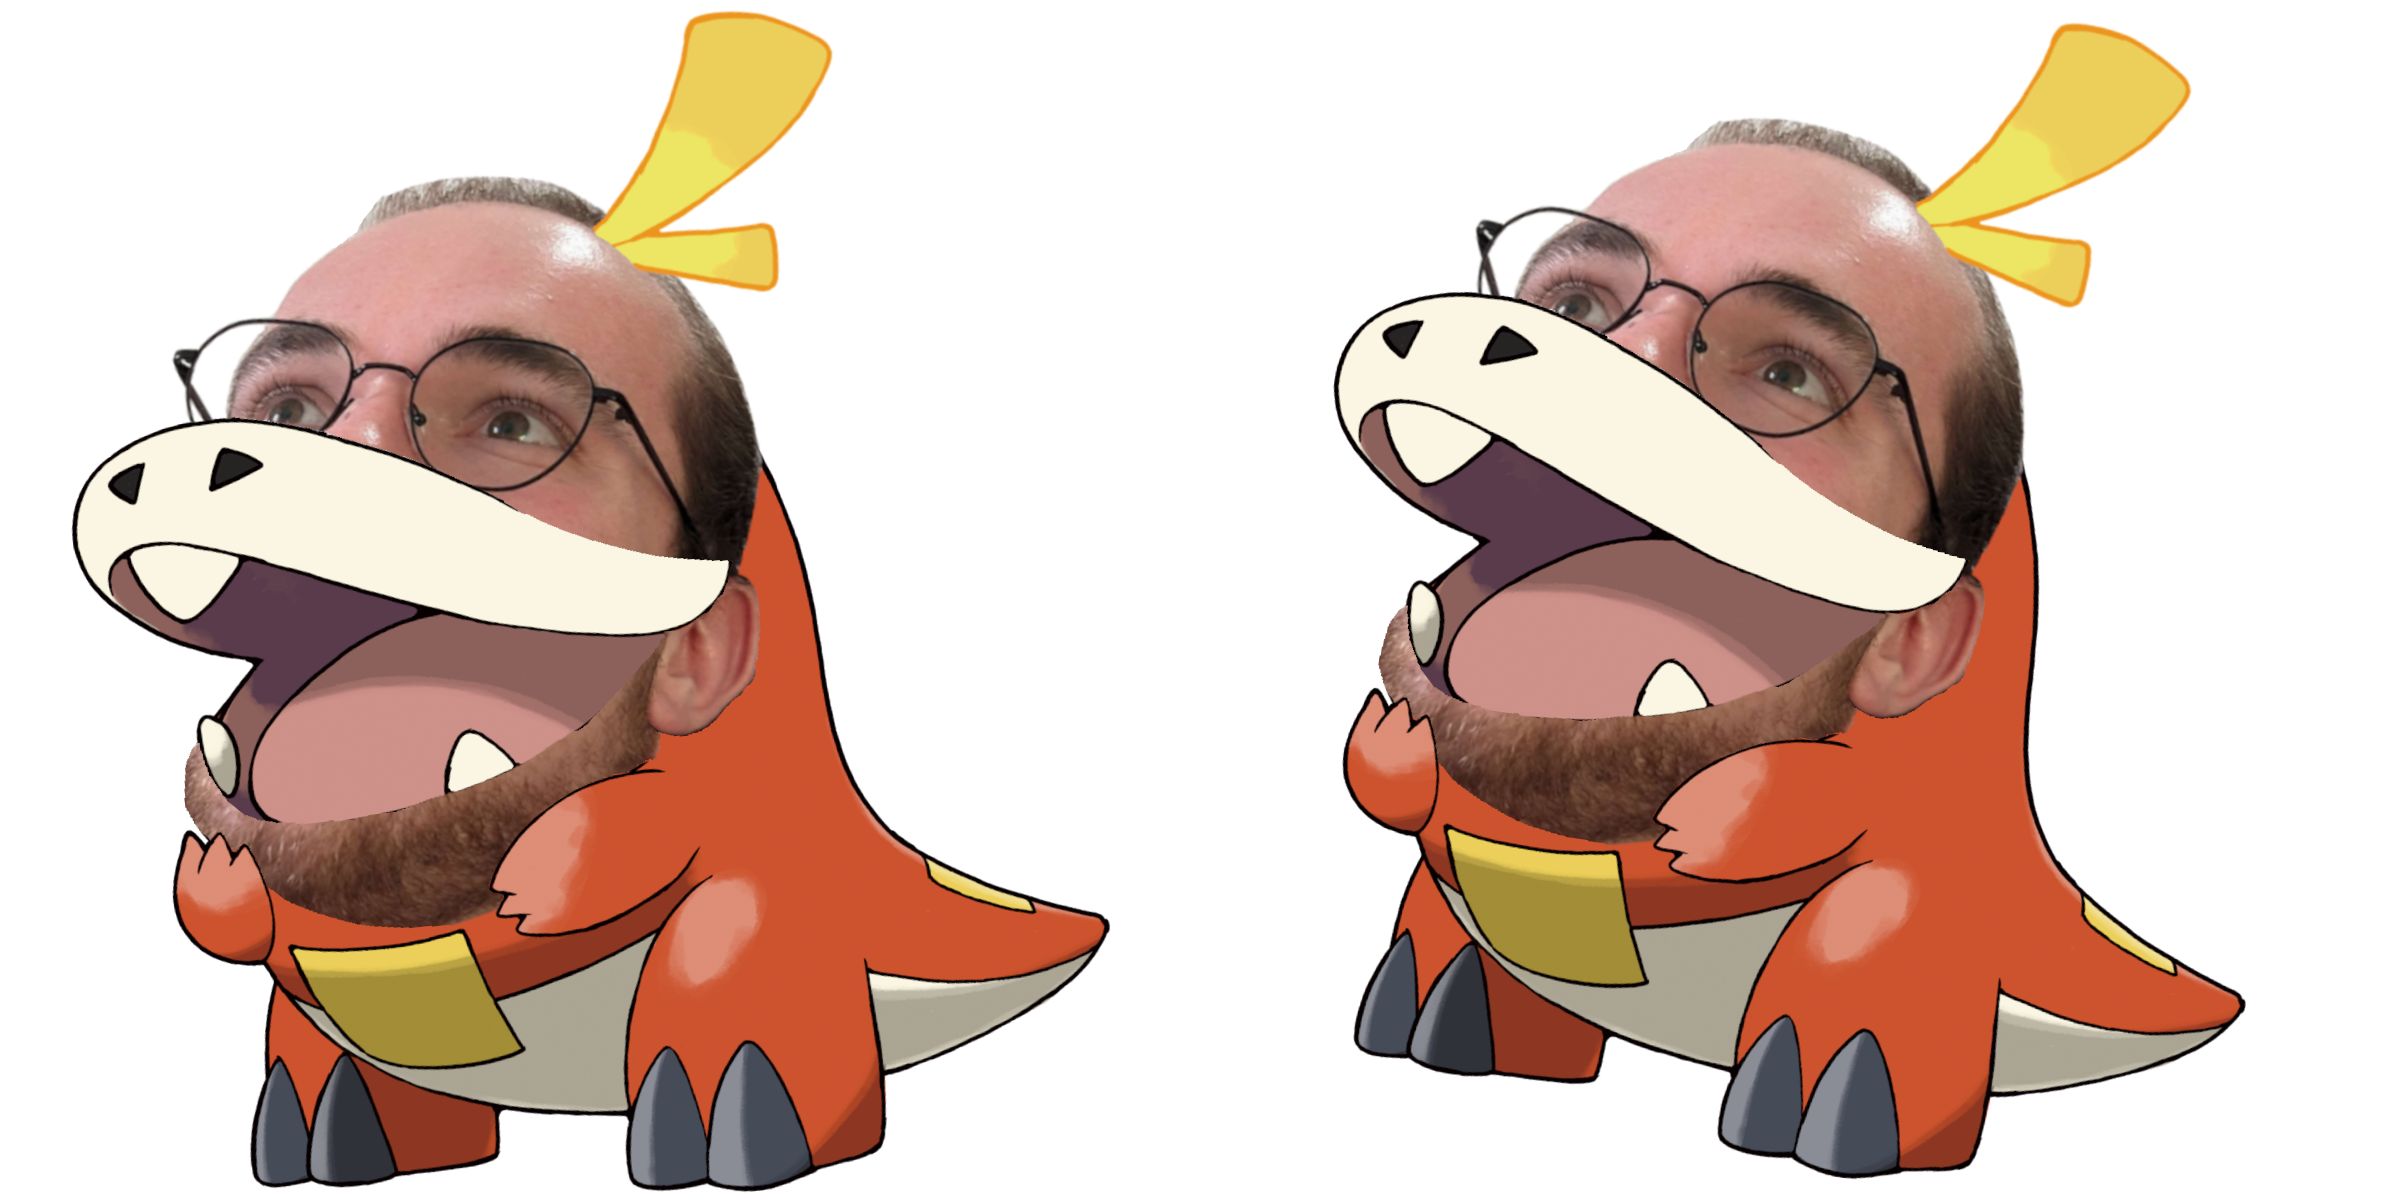
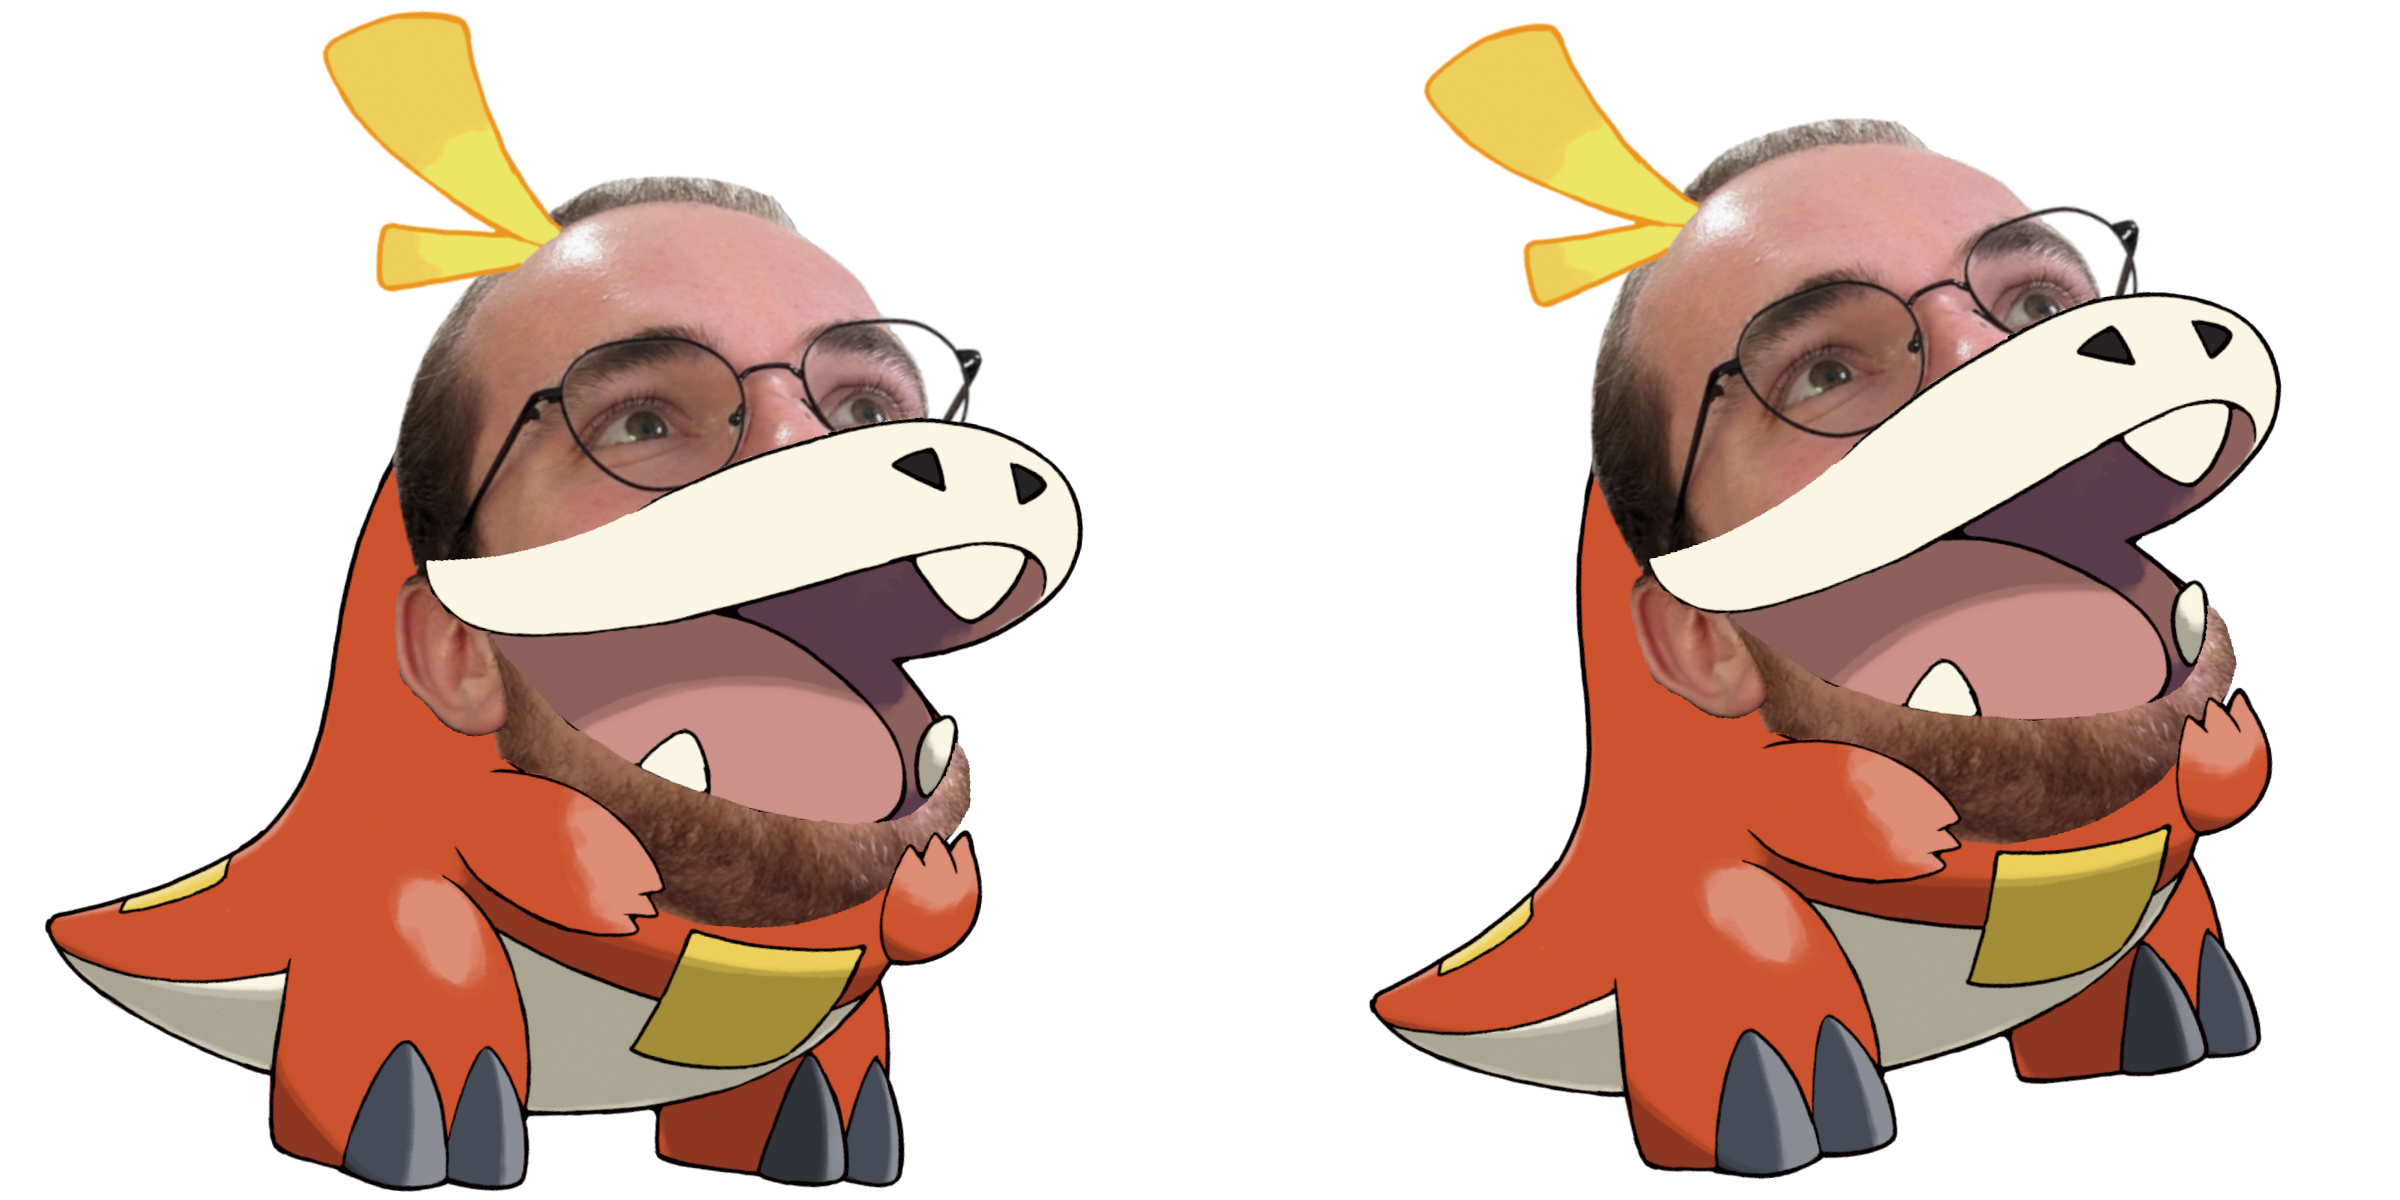
marche fonctionne animation Maxime

diff --git a/MaximeTPerso/animation/animation_Maxime.c b/MaximeTPerso/animation/animation_Maxime.c
@@ -213,15 +213,15 @@ int main(int argc, char** argv) {
     my_texture_stand = load_texture_from_image("comcomdile.png", window, renderer);
     my_texture_marche = load_texture_from_image("comcomdile_marche.png", window, renderer);
     
-    play_with_texture_3(my_texture_stand, window, renderer);
-    //play_with_texture_4(my_texture_marche, window, renderer);
+    //play_with_texture_3(my_texture_stand, window, renderer);
+    play_with_texture_4(my_texture_marche, window, renderer);
 
     SDL_Delay(1000); // Pause exprimée en ms
                           
     /* Fermeture SDL */
     end_sdl(1, "Normal ending", window, renderer);
-    SDL_DestroyTexture(my_texture_stand);
-    //SDL_DestroyTexture(my_texture_marche);
+    //SDL_DestroyTexture(my_texture_stand);
+    SDL_DestroyTexture(my_texture_marche);
 
     return EXIT_SUCCESS;
 }
